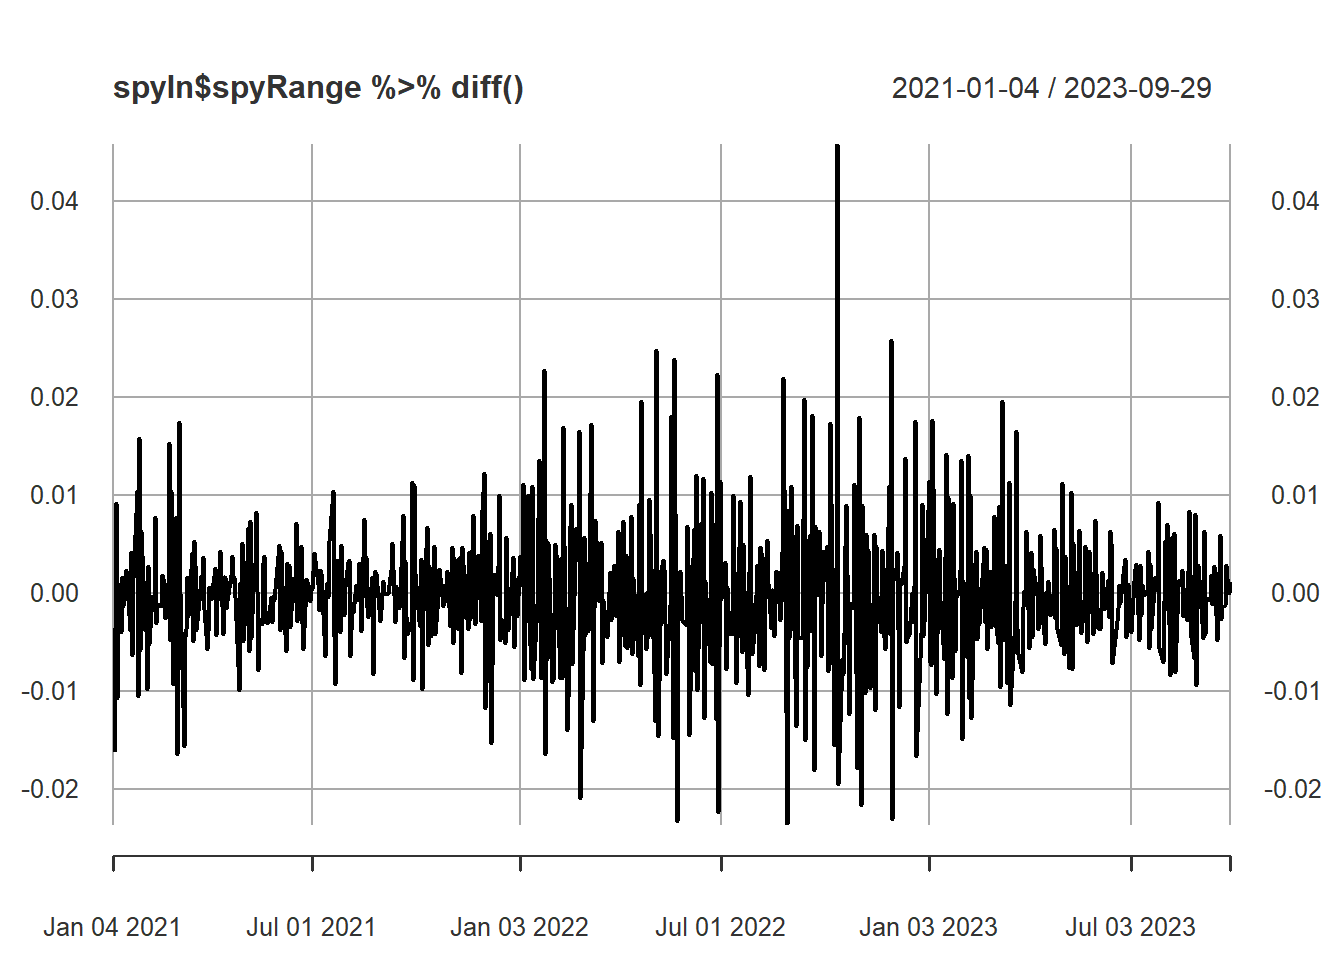
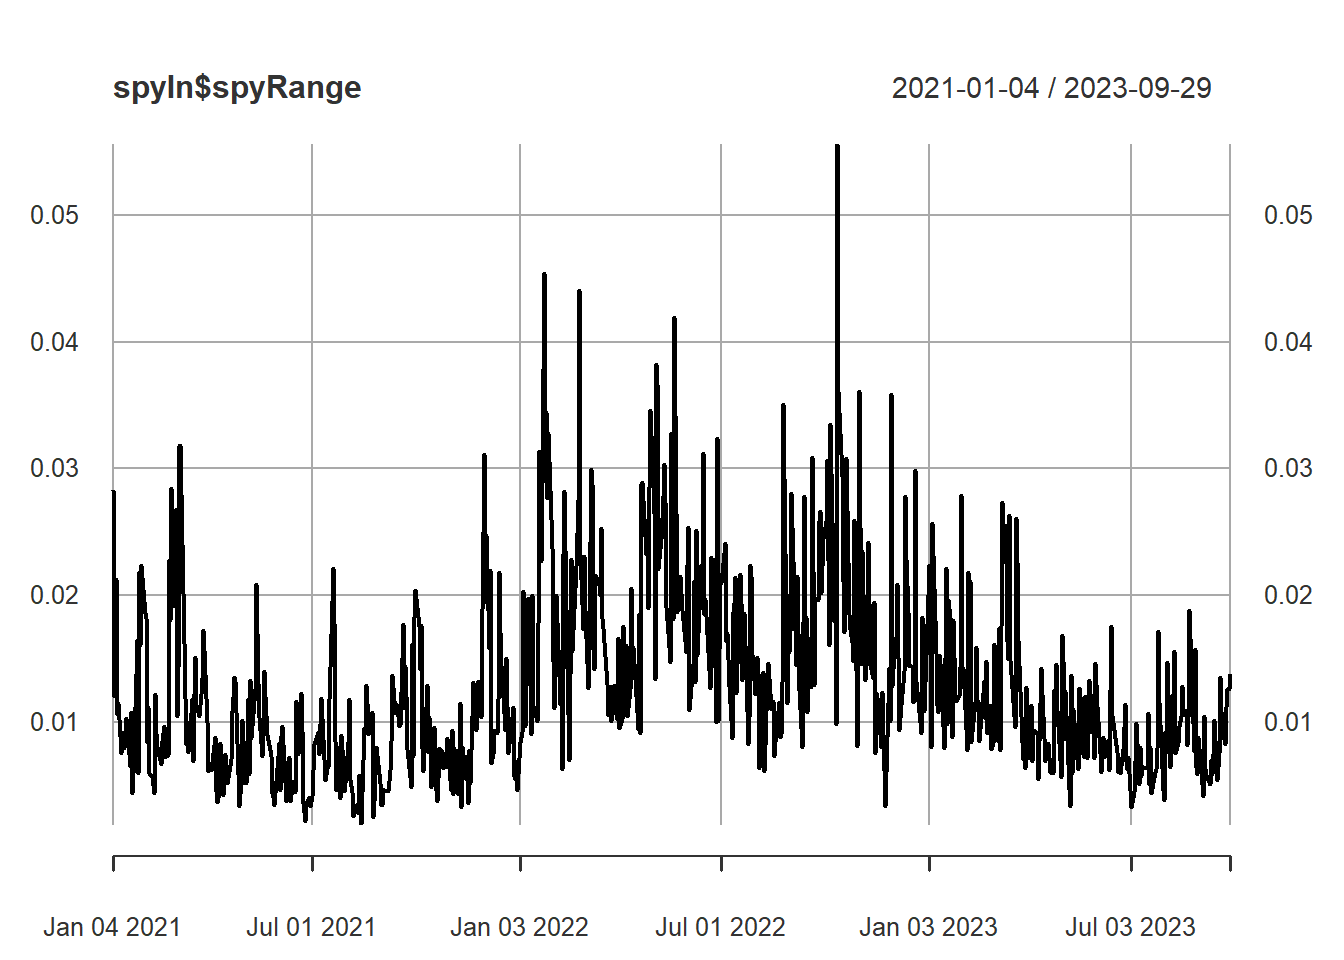
New Garch Modeling

diff --git a/_site/Financial Time Series Models (ARCH GARCH).html b/_site/Financial Time Series Models (ARCH GARCH).html
@@ -204,7 +204,7 @@ pre > code.sourceCode > span > a:first-child::before { text-decoration: underlin
 <h2 class="anchored">
 Introduction
 </h2>
-<p>On this page, I will look to see whether ARCH and GARCH models may be a good fit for the intraday range of popular stock market indices. While these models would usually be fitted on the returns of financial intstruments, intraday percent range also exhibits volatility clustering, and intraday range is the exact subject of my project. This means that modelling these time series successfully would be complementary with the other models I have tried to fit, and I am eager to investigate whether these methods will work well at answering my research questions. I will look to fit 3 models: 1 each for the daily range of SPY, QQQ, and IWM.</p>
+<p>On this page, I will look to see whether ARCH and GARCH models may be a good fit for the change in intraday range of popular stock market indices. While these models would usually be fitted on the returns of financial intstruments, the day over day change in intraday percent range also exhibits volatility clustering, and intraday range is the exact subject of my project. This means that modelling these time series successfully would be complementary with the other models I have tried to fit, and I am eager to investigate whether these methods will work well at answering my research questions. I will look to fit 3 models: 1 each for the daily range of SPY, QQQ, and IWM.</p>
 <h2 class="anchored">
 Stationarity and Volatility
 </h2>
@@ -305,33 +305,53 @@ Attaching package: 'xts'</code></pre>
 <div class="cell">
 <details>
 <summary>Code</summary>
-<div class="sourceCode cell-code" id="cb17"><pre class="sourceCode r code-with-copy"><code class="sourceCode r"><span id="cb17-1"><a href="#cb17-1" aria-hidden="true" tabindex="-1"></a><span class="fu">plot</span>(spyIn<span class="sc">$</span>spyRange <span class="sc">%&gt;%</span> <span class="fu">diff</span>())</span></code><button title="Copy to Clipboard" class="code-copy-button"><i class="bi"></i></button></pre></div>
+<div class="sourceCode cell-code" id="cb17"><pre class="sourceCode r code-with-copy"><code class="sourceCode r"><span id="cb17-1"><a href="#cb17-1" aria-hidden="true" tabindex="-1"></a><span class="fu">plot</span>(spyIn<span class="sc">$</span>spyRange)</span></code><button title="Copy to Clipboard" class="code-copy-button"><i class="bi"></i></button></pre></div>
 </details>
 <div class="cell-output-display">
 <p><img src="Financial-Time-Series-Models--ARCH-GARCH-_files/figure-html/unnamed-chunk-3-1.png" class="img-fluid" width="672"></p>
 </div>
 </div>
-<p>The SPY data certainly appears to have clustered volatility, as there are large swings in close proximity to eachother.</p>
-<p>QQQ</p>
+<p>The SPY data certainly appears to have clustered volatility, as there are large swings in close proximity to eachother. But it also has noticeable trend, with the intraday ranges being higher during the middle of the time series before dropping down again towards the end. To combat this, let’s look at the differenced series:</p>
 <div class="cell">
 <details>
 <summary>Code</summary>
-<div class="sourceCode cell-code" id="cb18"><pre class="sourceCode r code-with-copy"><code class="sourceCode r"><span id="cb18-1"><a href="#cb18-1" aria-hidden="true" tabindex="-1"></a><span class="fu">plot</span>(qqqIn<span class="sc">$</span>qqqRange)</span></code><button title="Copy to Clipboard" class="code-copy-button"><i class="bi"></i></button></pre></div>
+<div class="sourceCode cell-code" id="cb18"><pre class="sourceCode r code-with-copy"><code class="sourceCode r"><span id="cb18-1"><a href="#cb18-1" aria-hidden="true" tabindex="-1"></a><span class="fu">plot</span>(spyIn<span class="sc">$</span>spyRange <span class="sc">%&gt;%</span> <span class="fu">diff</span>())</span></code><button title="Copy to Clipboard" class="code-copy-button"><i class="bi"></i></button></pre></div>
 </details>
 <div class="cell-output-display">
 <p><img src="Financial-Time-Series-Models--ARCH-GARCH-_files/figure-html/unnamed-chunk-4-1.png" class="img-fluid" width="672"></p>
 </div>
 </div>
-<p>IWM</p>
+<p>Now, we see a plot that looks very similar to the daily returns of a stock and promising for ARCH/GARCH modeling, which means it is stationary but has clustered volatility. To adjust for this, we can fit an ARIMA model on the SPY ranges, and then fit a GARCH model on the residuals, which will come from differenced data that is now stationary.</p>
+<p>Repeating the process for QQQ:</p>
 <div class="cell">
 <details>
 <summary>Code</summary>
-<div class="sourceCode cell-code" id="cb19"><pre class="sourceCode r code-with-copy"><code class="sourceCode r"><span id="cb19-1"><a href="#cb19-1" aria-hidden="true" tabindex="-1"></a><span class="fu">plot</span>(iwmIn<span class="sc">$</span>iwmRange)</span></code><button title="Copy to Clipboard" class="code-copy-button"><i class="bi"></i></button></pre></div>
+<div class="sourceCode cell-code" id="cb19"><pre class="sourceCode r code-with-copy"><code class="sourceCode r"><span id="cb19-1"><a href="#cb19-1" aria-hidden="true" tabindex="-1"></a><span class="fu">plot</span>(qqqIn<span class="sc">$</span>qqqRange)</span></code><button title="Copy to Clipboard" class="code-copy-button"><i class="bi"></i></button></pre></div>
 </details>
 <div class="cell-output-display">
 <p><img src="Financial-Time-Series-Models--ARCH-GARCH-_files/figure-html/unnamed-chunk-5-1.png" class="img-fluid" width="672"></p>
 </div>
 </div>
+<p>Once again we see clear non-stationarity in the data, so let’s look at the differenced values:</p>
+<div class="cell">
+<details>
+<summary>Code</summary>
+<div class="sourceCode cell-code" id="cb20"><pre class="sourceCode r code-with-copy"><code class="sourceCode r"><span id="cb20-1"><a href="#cb20-1" aria-hidden="true" tabindex="-1"></a><span class="fu">plot</span>(qqqIn<span class="sc">$</span>qqqRange <span class="sc">%&gt;%</span> <span class="fu">diff</span>())</span></code><button title="Copy to Clipboard" class="code-copy-button"><i class="bi"></i></button></pre></div>
+</details>
+<div class="cell-output-display">
+<p><img src="Financial-Time-Series-Models--ARCH-GARCH-_files/figure-html/unnamed-chunk-6-1.png" class="img-fluid" width="672"></p>
+</div>
+</div>
+<pre><code>
+IWM
+::: {.cell}
+
+```{.r .cell-code}
+plot(iwmIn$iwmRange)</code></pre>
+<div class="cell-output-display">
+<p><img src="Financial-Time-Series-Models--ARCH-GARCH-_files/figure-html/unnamed-chunk-7-1.png" class="img-fluid" width="672"></p>
+</div>
+<p>:::</p>
 <h2 class="anchored">
 Look at past arima model for the data (fit here and copy to that tab later)
 </h2>
